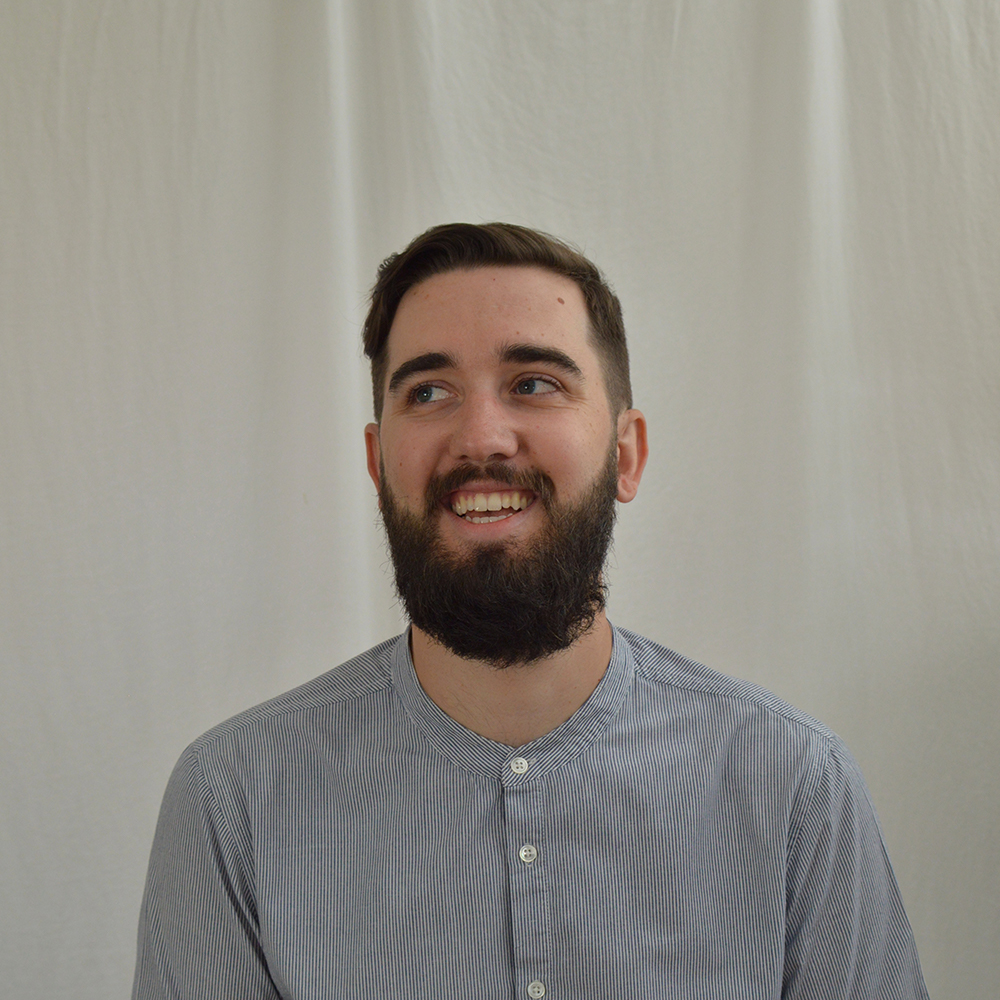
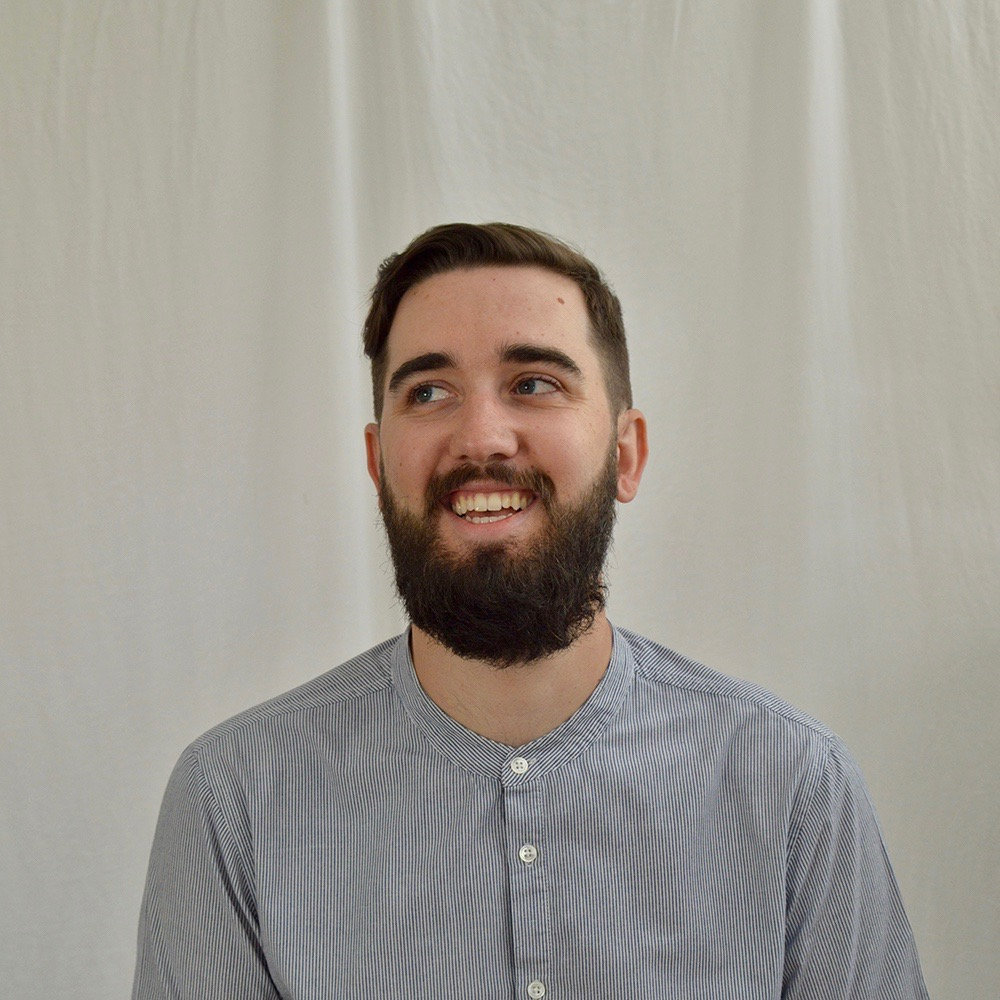
animate landing page image swapping

Changed region(s): [[0.186, 0.651, 0.899, 1.0], [0.434, 0.496, 0.527, 0.558], [0.465, 0.403, 0.527, 0.465]]

diff --git a/src/components/landing.js b/src/components/landing.js
@@ -1,15 +1,61 @@
-import React from "react"
+import React, { useState } from "react"
+import { useStaticQuery, graphql } from "gatsby"
+import Img from "gatsby-image"
+import posed from "react-pose"
 import { LandingStyles } from "./styled/LandingStyles"
-import Image from "../components/image"
 
-export default function Landing() {
+const PressableImage = posed.div({
+  pressable: true,
+  init: { scale: 1 },
+  press: { scale: 0.9 },
+})
+
+function Landing() {
+  const [imageSelection, setImageSelection] = useState(true)
+
+  const data = useStaticQuery(graphql`
+    query {
+      straightForwardImage: file(
+        relativePath: { eq: "500x500px_headshot.jpg" }
+      ) {
+        childImageSharp {
+          fluid(maxWidth: 300) {
+            ...GatsbyImageSharpFluid
+          }
+        }
+      }
+      lookingUpImage: file(relativePath: { eq: "Smiley.jpg" }) {
+        childImageSharp {
+          fluid(maxWidth: 300) {
+            ...GatsbyImageSharpFluid
+          }
+        }
+      }
+    }
+  `)
+
   return (
     <LandingStyles>
       <h1>Hi people</h1>
       <p>Welcome to my website</p>
-      <div style={{ marginBottom: `1.45rem` }}>
-        <Image />
-      </div>
+      <PressableImage
+        style={{
+          marginBottom: "1.45rem",
+          cursor: "pointer",
+        }}
+        onClick={() => setImageSelection(!imageSelection)}
+      >
+        <Img
+          fluid={
+            imageSelection
+              ? data.straightForwardImage.childImageSharp.fluid
+              : data.lookingUpImage.childImageSharp.fluid
+          }
+          style={{ maxWidth: "200px", borderRadius: "50%" }}
+        />
+      </PressableImage>
     </LandingStyles>
   )
 }
+
+export default Landing

diff --git a/src/components/image.js b/src/components/image.js
@@ -13,10 +13,19 @@ import Img from "gatsby-image"
  * - `useStaticQuery`: https://www.gatsbyjs.org/docs/use-static-query/
  */
 
-const Image = () => {
+const Image = ({ imageSelection }) => {
   const data = useStaticQuery(graphql`
     query {
-      placeholderImage: file(relativePath: { eq: "500x500px_headshot.jpg" }) {
+      straightForwardImage: file(
+        relativePath: { eq: "500x500px_headshot.jpg" }
+      ) {
+        childImageSharp {
+          fluid(maxWidth: 300) {
+            ...GatsbyImageSharpFluid
+          }
+        }
+      }
+      lookingUpImage: file(relativePath: { eq: "Smiley.jpg" }) {
         childImageSharp {
           fluid(maxWidth: 300) {
             ...GatsbyImageSharpFluid
@@ -28,8 +37,11 @@ const Image = () => {
 
   return (
     <Img
-      fluid={data.placeholderImage.childImageSharp.fluid}
-      style={{ borderRadius: "50%", maxWidth: "200px" }}
+      fluid={
+        imageSelection === "straightForward"
+          ? data.straightForwardImage.childImageSharp.fluid
+          : data.lookingUpImage.childImageSharp.fluid
+      }
     />
   )
 }
